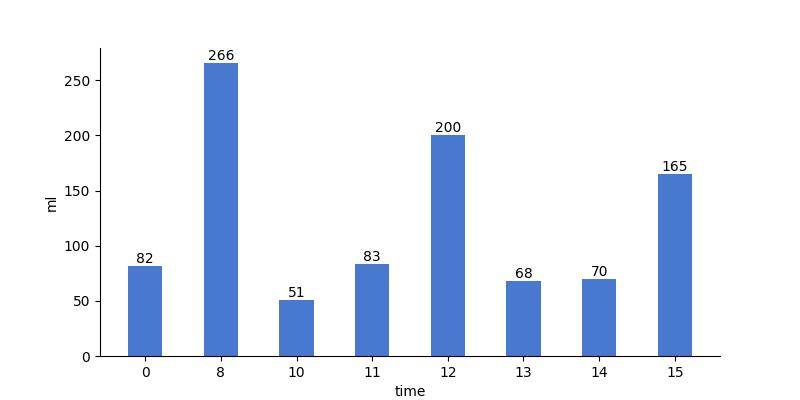
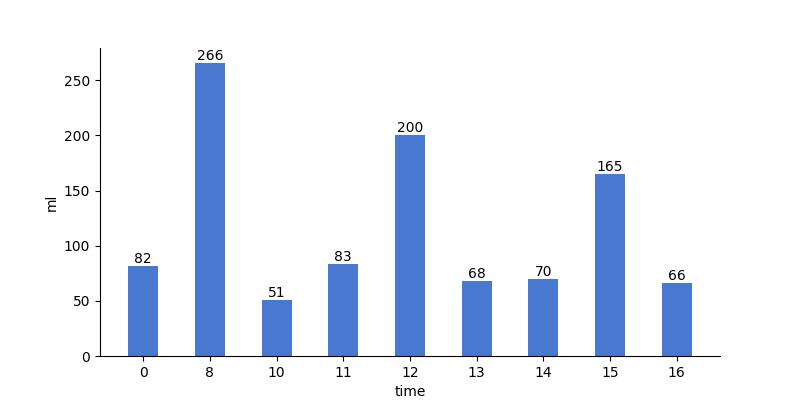
generated readme

diff --git a/README.md b/README.md
@@ -5,12 +5,12 @@
 
 | 今日总饮水量 | 每小时平均饮水量 |
 | :----: | :----: |
-| 985 | 123 |
+| 1051 | 116 |
 </div>
 
-| 日期 | 00:04:06 | 08:11:50 | 08:20:38 | 10:16:07 | 11:12:54 | 12:19:12 | 13:12:10 | 14:13:56 | 15:13:27 | 15:59:10 |
-| :----: | :----: | :----: | :----: | :----: | :----: | :----: | :----: | :----: | :----: | :----: |
-| 2022-10-28 | 82 | 200 | 66 | 51 | 83 | 200 | 68 | 70 | 64 | 101 |
+| 日期 | 00:04:06 | 08:11:50 | 08:20:38 | 10:16:07 | 11:12:54 | 12:19:12 | 13:12:10 | 14:13:56 | 15:13:27 | 15:59:10 | 16:33:48 | 16:42:12 |
+| :----: | :----: | :----: | :----: | :----: | :----: | :----: | :----: | :----: | :----: | :----: | :----: | :----: |
+| 2022-10-28 | 82 | 200 | 66 | 51 | 83 | 200 | 68 | 70 | 64 | 101 | 28 | 38 |
 
 # 近30日饮水数据
 
